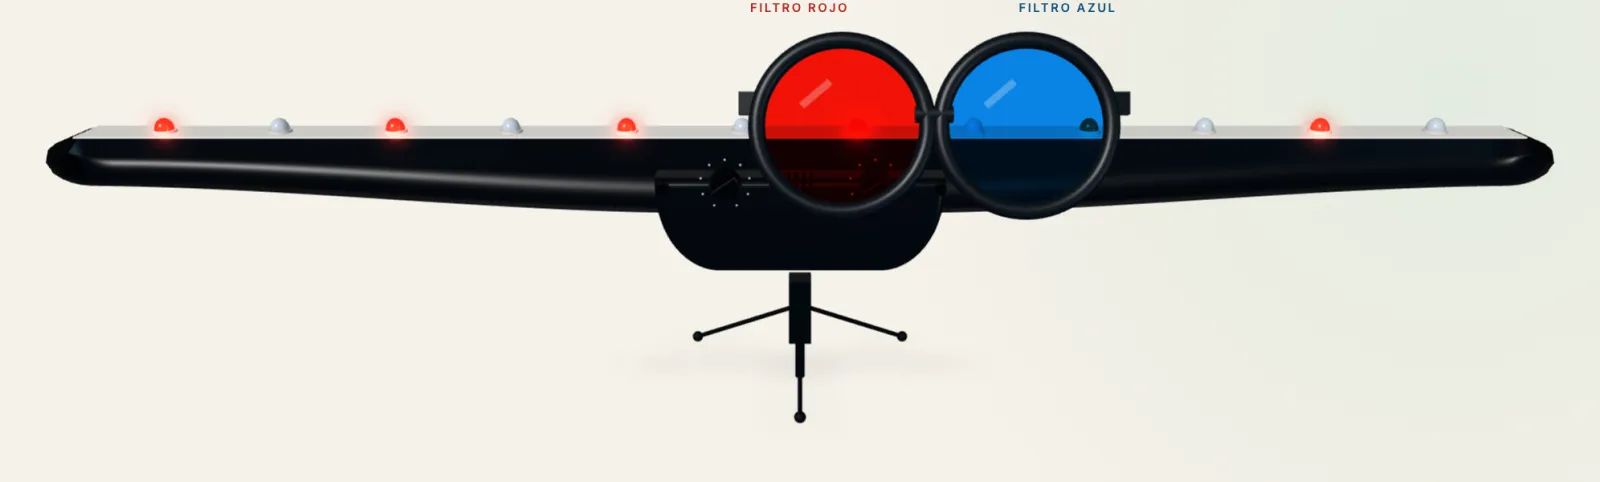
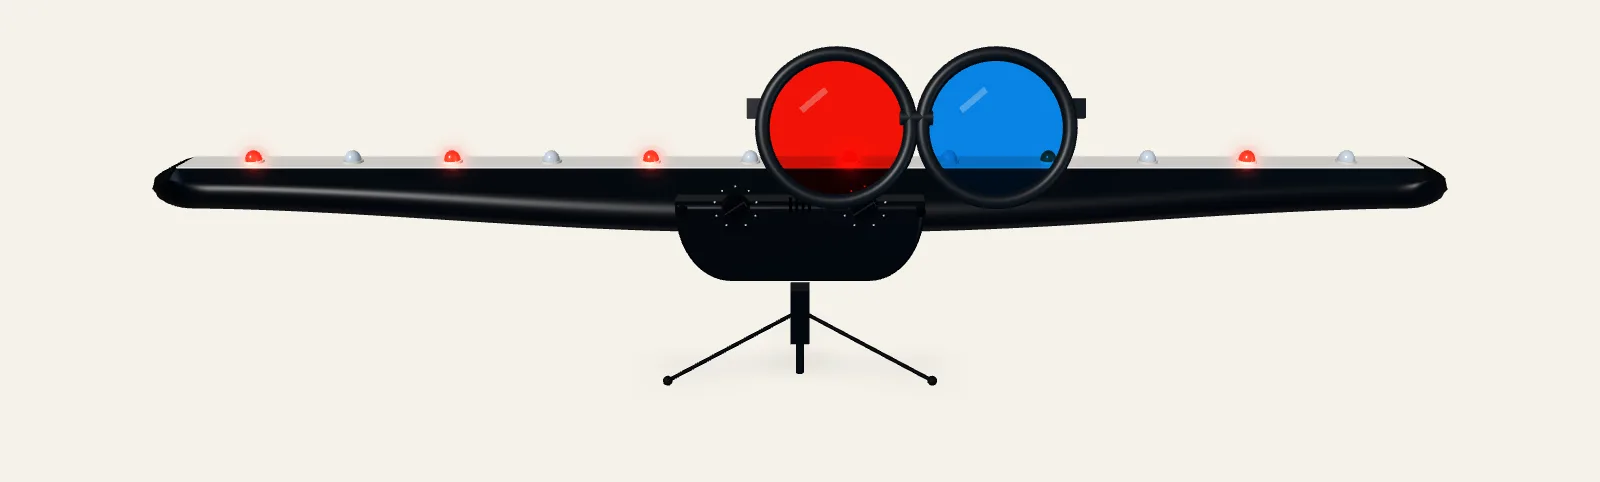
fix(v2): barra de luces — trípode abierto, gafas que no tapan el panel y LED cercano entero en el paso 4

diff --git a/src/components/v2/servicio/BarraLucesEscena.tsx b/src/components/v2/servicio/BarraLucesEscena.tsx
@@ -205,7 +205,13 @@ function Boton({ x }: { x: number }) {
 }
 
 function Tripode() {
-  const patas = [0, (Math.PI * 2) / 3, (Math.PI * 4) / 3].map((a) => a + Math.PI / 2);
+  // una pata hacia atrás y dos abiertas a los lados: ninguna apunta a la cámara
+  // (de frente, una pata hacia delante se lee como un palo vertical)
+  const pies = [
+    [0, -0.72],
+    [-0.95, 0.38],
+    [0.95, 0.38],
+  ] as const;
   const cubo = new THREE.Vector3(0, 0.42, 0);
   return (
     <group>
@@ -222,8 +228,8 @@ function Tripode() {
         <cylinderGeometry args={[0.07, 0.07, 0.14, 20]} />
         <meshPhysicalMaterial {...plastico} />
       </mesh>
-      {patas.map((a, i) => {
-        const pie = new THREE.Vector3(Math.cos(a) * 0.8, 0.03, Math.sin(a) * 0.8);
+      {pies.map(([px, pz], i) => {
+        const pie = new THREE.Vector3(px, 0.03, pz);
         const medio = pie.clone().add(cubo).multiplyScalar(0.5);
         const dir = pie.clone().sub(cubo);
         const q = new THREE.Quaternion().setFromUnitVectors(new THREE.Vector3(0, 1, 0), dir.clone().normalize());
@@ -384,8 +390,11 @@ function encuadrar(cam: THREE.PerspectiveCamera, size: { width: number; height: 
   cam.lookAt(centro);
 }
 
+/** Cuánto suben las gafas en el hero al pasar por delante del panel. */
+const SALTO = 0.26;
+
 // hero: de frente, algo por encima, la barra a todo el ancho
-const CENTRO = new THREE.Vector3(0, Y_BARRA * 0.55, 0);
+const CENTRO = new THREE.Vector3(0, Y_BARRA * 0.62, 0);
 const DIR = new THREE.Vector3(0, 0.34, 1).normalize();
 /**
  * En lienzos estrechos (móvil) la barra entera quedaría diminuta: se encuadra
@@ -400,6 +409,8 @@ function claveHero(k: number) {
     new THREE.Vector3((LARGO / 2) * k, Y_BARRA - ALTO, 0),
     new THREE.Vector3(0, 0, 0.8),
     new THREE.Vector3(0, 0, -0.8),
+    // las gafas, levantadas al pasar por el centro, y sus etiquetas
+    new THREE.Vector3(0, Y_BARRA + SALTO + 0.55, 0),
   ];
 }
 
@@ -504,6 +515,7 @@ function Escena({ id, modo, oscuro, reducir }: { id: string; modo: "auto" | "scr
     const etq = etiquetasDe(id);
     let presencia = 1;
     let xGafas: number;
+    let salto = 0;
 
     if (modo === "scroll") {
       const G = guionBarra(barraScroll.p);
@@ -532,9 +544,10 @@ function Escena({ id, modo, oscuro, reducir }: { id: string; modo: "auto" | "scr
       mira.copy(centroTmp);
       if (G.nariz > 0) {
         // ojos a ~5 cm por encima de la punta cercana, mirando a lo largo de la barra
-        bar.localToWorld(tmp.set(LARGO / 2 + 1.3, 0.85, 0));
+        // (algo atrás y mirando un poco abajo: la luz más cercana entra entera)
+        bar.localToWorld(tmp.set(LARGO / 2 + 1.9, 0.85, 0));
         camA.lerp(tmp, G.nariz);
-        bar.localToWorld(tmp.set(-LARGO * 0.18, 0, 0));
+        bar.localToWorld(tmp.set(-LARGO * 0.18, -0.35, 0));
         mira.lerp(tmp, G.nariz);
         camera.position.copy(camA);
         camera.lookAt(mira);
@@ -588,10 +601,13 @@ function Escena({ id, modo, oscuro, reducir }: { id: string; modo: "auto" | "scr
       }
       e.u = reducir ? meta : THREE.MathUtils.damp(e.u, meta, 3.5, dt);
       xGafas = THREE.MathUtils.lerp(-X_MAX, X_MAX, e.u);
+      // al pasar por el centro, las gafas suben un poco: tapan los LED con la mitad
+      // de abajo y dejan ver el panel (perillas y botones)
+      salto = SALTO * (1 - ss(0.55, 1.5, Math.abs(xGafas)));
     }
 
     // las gafas, entre la cámara y el punto de la fila de LED que tapan
-    bar.localToWorld(tmp.set(xGafas, 0.04, 0));
+    bar.localToWorld(tmp.set(xGafas, 0.04 + salto, 0));
     g.position.copy(camera.position).lerp(tmp, 1 - K_GAFAS);
     g.quaternion.copy(camera.quaternion);
     // invertir las gafas = darles la vuelta: el filtro rojo pasa al otro ojo

diff --git a/RETOMAR-V2.md b/RETOMAR-V2.md
@@ -9,7 +9,7 @@ Pediátrica ya tiene su pieza sin el ojo: **tablero de cuentas para planchar** (
 - Siguen pendientes: borrador de la barra para la doctora, los 3 ajustes visuales de la barra (ver abajo) y los objetos para ambliopía y terapia visual.
 
 **Orden para la próxima sesión** (abrirla en `~/Desktop/Ortoptika-v2`, no en `~/Desktop/ortoptika`):
-1. Ajustes visuales de la barra (visión binocular): abrir las patas del trípode hacia los lados, que las gafas no tapen el panel al pasar por el centro, y que el LED más cercano no salga cortado en el paso 4 del recorrido.
+1. ~~Ajustes visuales de la barra~~ HECHO (20-nov, tarde): trípode con una pata atrás y dos abiertas a los lados; en el hero las gafas suben `SALTO` al pasar por el centro y dejan ver las perillas (el encuadre del hero reserva sitio arriba, así que la barra sale algo más pequeña: ~1075 px de ancho a 1440 frente a ~1250 antes); en el paso 4 la cámara se aleja y mira un poco abajo, y la luz más cercana entra entera. Respaldo `barra-luces.webp` regenerado.
 2. Juntar en un solo mensaje para la doctora el copy en borrador: los pasos 1-3 de las cuentas (`CuentasRecorrido.tsx`, PASOS) y los 4 de la barra (`BarraRecorrido.tsx`), con las preguntas abiertas de cada uno.
 3. Ambliopía y terapia visual: pedir al usuario la foto del objeto real de cada una y seguir la misma receta (la plantilla más reciente es `CuentasEscena` + `CuentasRecorrido`).
 - Dev: `pnpm exec next dev -p 3312`. Capturas: script de Playwright en el scratchpad de la sesión (se pierde); rehacerlo desde `~/.claude/skills/captura-web/node_modules`, quitando el banner de cookies («Rechazar»). Respaldos sin WebGL: con `reducedMotion: "reduce"` la escena sale completa; ocultar todo menos el canvas para tener fondo transparente.
